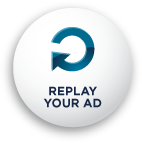
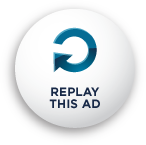
The buttons shown at the end of the video now depend on whether you're watching or creating. (Closes #59)

diff --git a/style.css b/style.css
@@ -825,9 +825,27 @@ img.video-decor-crest.gone { bottom: -800px; left: 500px;  }
   opacity: 1;
 }
 
-#video-postroll li#restart { background-image: url(img/video-postroll-button-restart.png); }
-#video-postroll li#replay  { background-image: url(img/video-postroll-button-replay.png); }
-#video-postroll li#share   { background-image: url(img/video-postroll-button-share.png); }
+#video-postroll li#restart     { background-image: url(img/video-postroll-button-restart.png); }
+#video-postroll li#replay      { background-image: url(img/video-postroll-button-replay.png); }
+#video-postroll li#share       { background-image: url(img/video-postroll-button-share.png); }
+#video-postroll li#makeyourown { background-image: url(img/video-postroll-button-make_your_own_ad.png); }
+
+
+#video-postroll.create #makeyourown
+{
+  display: none;
+}
+
+#video-postroll.watch.active
+{
+  left: 200px;
+}
+
+#video-postroll.watch #restart,
+#video-postroll.watch #share
+{
+  display: none;
+}
 
 #video-input_opportunity
 {

diff --git a/js/app.js b/js/app.js
@@ -387,9 +387,11 @@ $(document).ready(function() {
     // Pause the video before YouTube can.
     video.pause();
 
-    // Hide controls and show post-roll.
+    // Hide controls.
     $('#video-controls').hide();
-    show_element($('#video-postroll'));
+
+    // Show post-roll.
+    show_element($('#video-postroll').addClass(window.playback_mode));
 
     // Restart the ad-type cycler.
     // Plugin: jquery.cycle

diff --git a/index.php b/index.php
@@ -121,8 +121,9 @@
           
           <div id="video-postroll">
             <ul>
+              <li id="makeyourown">Make Your Own Ad</li>
               <li id="restart">Choose a New Ad</li>
-              <li id="replay">Replay Your Ad</li>
+              <li id="replay">Replay This Ad</li>
               <li id="share">Share to Facebook</li>
             </ul>
           </div>
